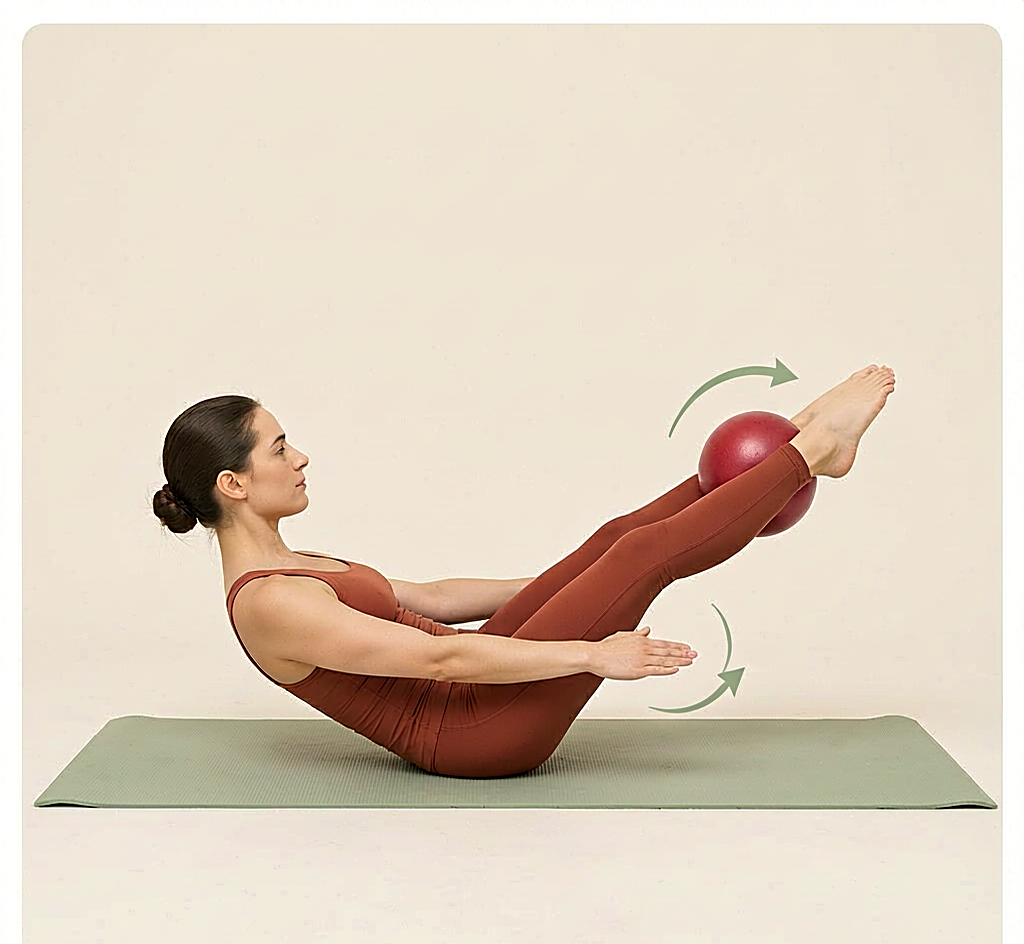
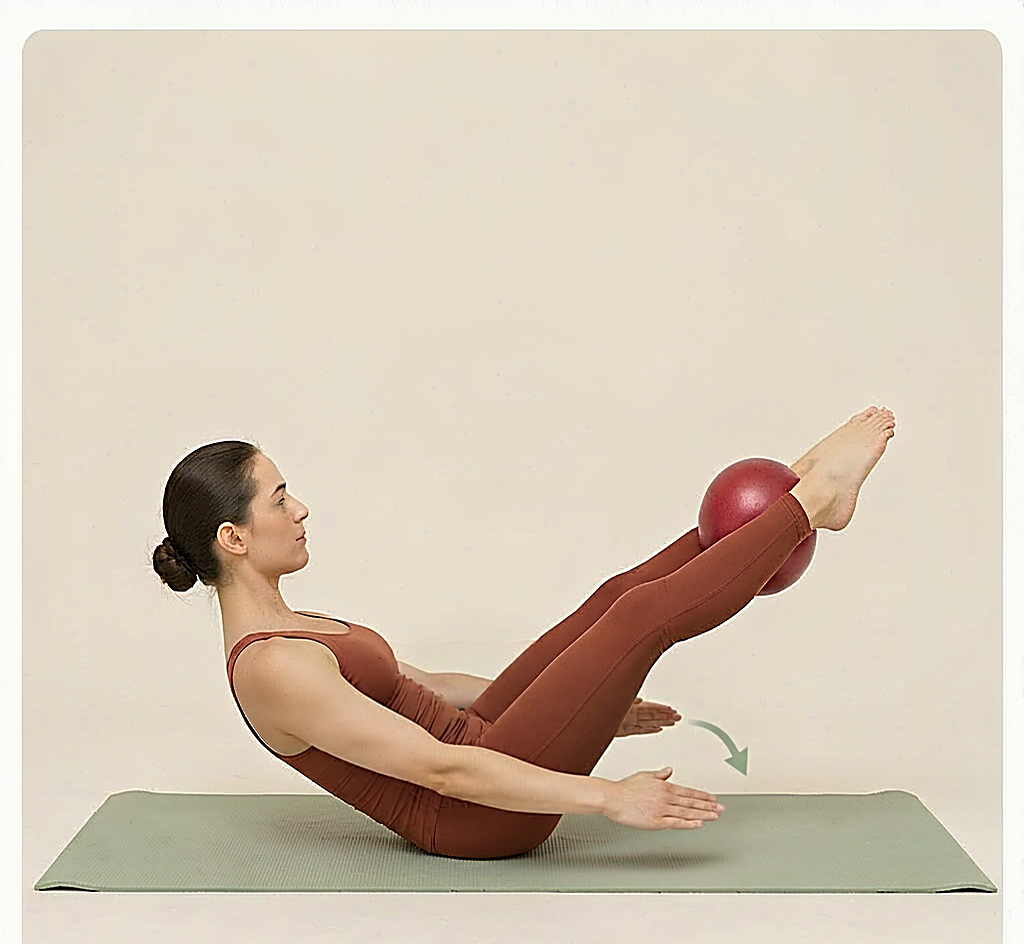
Deploy Mini Ball Hundred C v3

Changed region(s): [[0.0312, 0.3686, 0.9688, 0.9831], [0.0312, 0.0, 0.9688, 0.0307]]

diff --git a/src/App.tsx b/src/App.tsx
@@ -160,7 +160,7 @@ const smallApparatusExtraExercises: Exercise[] = [
   { id: 238, kind: '小器械', en: 'Mini Ball Adductor Squeeze', zh: '小球内收夹压', image: assetUrl('assets/small-apparatus-extra/mini-ball-adductor-squeeze.png?v=2') },
   { id: 239, kind: '小器械', en: 'Resistance Band Chest Expansion', zh: '弹力带胸部扩展', image: assetUrl('assets/small-apparatus-extra/resistance-band-chest-expansion.png?v=3') },
   { id: 240, kind: '小器械', en: 'Foam Roller Dead Bug', zh: '泡沫轴死虫式', image: assetUrl('assets/small-apparatus-extra/foam-roller-dead-bug.png?v=2') },
-  { id: 241, kind: '小器械', en: 'Mini Ball Hundred', zh: '小球百次呼吸', image: assetUrl('assets/small-apparatus-extra/mini-ball-hundred.png?v=2') },
+  { id: 241, kind: '小器械', en: 'Mini Ball Hundred', zh: '小球百次呼吸', image: assetUrl('assets/small-apparatus-extra/mini-ball-hundred.png?v=3') },
 ]
 const customMoreExercises: Exercise[] = moreExercises.map(exercise => {
   const moreOverrides: Record<string, string> = {
